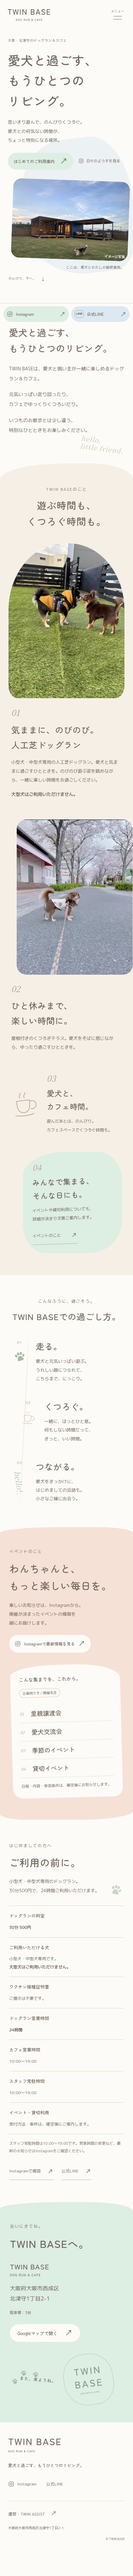
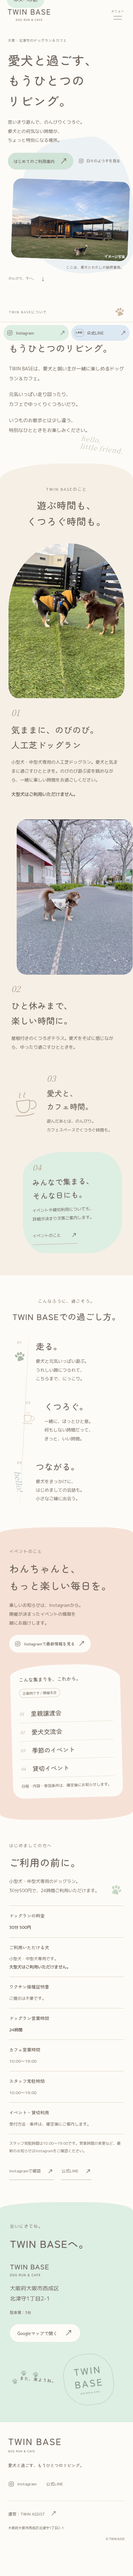
Connect TWIN BASE official LINE account

Changed region(s): [[0.0308, 0.0935, 0.4923, 0.1559], [0.5538, 0.0935, 0.9538, 0.1559]]

diff --git a/public/twin-base/index.html b/public/twin-base/index.html
@@ -1,5 +1,5 @@
 <!doctype html>
-<html lang="ja"><head><meta charset="UTF-8"><meta name="viewport" content="width=device-width,initial-scale=1"><meta name="theme-color" content="#FDFBF7"><meta name="robots" content="noindex,follow"><title>TWIN BASE｜大阪・北津守のドッグラン＆カフェ</title><meta name="description" content="愛犬と過ごす、もうひとつのリビング。大阪市西成区北津守のドッグラン＆カフェ TWIN BASE。施設の魅力、ご利用案内、アクセスをご紹介します。"><link rel="canonical" href="https://twin.yumayuma-0729.workers.dev/twin-base/"><meta property="og:type" content="website"><meta property="og:locale" content="ja_JP"><meta property="og:site_name" content="TWIN BASE"><meta property="og:title" content="TWIN BASE｜愛犬と過ごす、もうひとつのリビング。"><meta property="og:description" content="思いきり遊んで、のんびりくつろぐ。大阪・北津守のドッグラン＆カフェ。"><meta property="og:url" content="https://twin.yumayuma-0729.workers.dev/twin-base/"><link rel="stylesheet" href="/twin-base/style.css?v=20261117-rest"><link rel="preload" as="font" type="font/woff2" href="/twin-base/fonts/zen-maru-medium.woff2" crossorigin><script src="/twin-base/settings.js?v=20261117-rest" defer></script><script src="/twin-base/app.js?v=20261117-rest" defer></script><script type="application/ld+json">{"@context":"https://schema.org","@type":"LocalBusiness","name":"TWIN BASE","description":"ドッグラン＆カフェ","url":"https://twin.yumayuma-0729.workers.dev/twin-base/","address":{"@type":"PostalAddress","streetAddress":"北津守1丁目2-1","addressLocality":"大阪市西成区","addressRegion":"大阪府","addressCountry":"JP"},"parentOrganization":{"@type":"Organization","name":"TWIN ASSIST","url":"https://twin.yumayuma-0729.workers.dev/"},"sameAs":["https://www.instagram.com/twinbase_dogrun?utm_source=qr"],"hasMap":"https://maps.app.goo.gl/CMuM3UB9zTNHnDWb7"}</script></head>
+<html lang="ja"><head><meta charset="UTF-8"><meta name="viewport" content="width=device-width,initial-scale=1"><meta name="theme-color" content="#FDFBF7"><meta name="robots" content="noindex,follow"><title>TWIN BASE｜大阪・北津守のドッグラン＆カフェ</title><meta name="description" content="愛犬と過ごす、もうひとつのリビング。大阪市西成区北津守のドッグラン＆カフェ TWIN BASE。施設の魅力、ご利用案内、アクセスをご紹介します。"><link rel="canonical" href="https://twin.yumayuma-0729.workers.dev/twin-base/"><meta property="og:type" content="website"><meta property="og:locale" content="ja_JP"><meta property="og:site_name" content="TWIN BASE"><meta property="og:title" content="TWIN BASE｜愛犬と過ごす、もうひとつのリビング。"><meta property="og:description" content="思いきり遊んで、のんびりくつろぐ。大阪・北津守のドッグラン＆カフェ。"><meta property="og:url" content="https://twin.yumayuma-0729.workers.dev/twin-base/"><link rel="stylesheet" href="/twin-base/style.css?v=20261117-rest"><link rel="preload" as="font" type="font/woff2" href="/twin-base/fonts/zen-maru-medium.woff2" crossorigin><script src="/twin-base/settings.js?v=20261117-line" defer></script><script src="/twin-base/app.js?v=20261117-rest" defer></script><script type="application/ld+json">{"@context":"https://schema.org","@type":"LocalBusiness","name":"TWIN BASE","description":"ドッグラン＆カフェ","url":"https://twin.yumayuma-0729.workers.dev/twin-base/","address":{"@type":"PostalAddress","streetAddress":"北津守1丁目2-1","addressLocality":"大阪市西成区","addressRegion":"大阪府","addressCountry":"JP"},"parentOrganization":{"@type":"Organization","name":"TWIN ASSIST","url":"https://twin.yumayuma-0729.workers.dev/"},"sameAs":["https://www.instagram.com/twinbase_dogrun?utm_source=qr"],"hasMap":"https://maps.app.goo.gl/CMuM3UB9zTNHnDWb7"}</script></head>
 <body class="tb-page"><a class="tb-skip" href="#main">本文へ移動</a>
 <svg class="tb-svg-defs" aria-hidden="true" xmlns="http://www.w3.org/2000/svg"><defs><symbol id="paw" viewBox="0 0 48 48"><ellipse cx="10" cy="18" rx="5" ry="7" transform="rotate(-25 10 18)"/><ellipse cx="21" cy="11" rx="5" ry="7" transform="rotate(-8 21 11)"/><ellipse cx="33" cy="12" rx="5" ry="7" transform="rotate(12 33 12)"/><ellipse cx="42" cy="23" rx="4.5" ry="6.5" transform="rotate(30 42 23)"/><path d="M15 28c3-6 12-9 17-3l6 9c5 8-5 12-12 8-7 5-18 1-14-7z"/></symbol><symbol id="instagram" viewBox="0 0 24 24"><rect x="3" y="3" width="18" height="18" rx="5" fill="none" stroke="currentColor" stroke-width="1.5"/><circle cx="12" cy="12" r="4" fill="none" stroke="currentColor" stroke-width="1.5"/><circle cx="17.5" cy="6.5" r="1"/></symbol><symbol id="cup" viewBox="0 0 140 130"><path d="M32 39c-3 43 6 61 32 62 24 0 35-21 34-62zM99 46c41-11 40 48 1 39M19 112c27 6 64 8 94-1M52 25c-13-14 11-15 0-26M74 25c-11-13 11-17 4-26" fill="none" stroke="currentColor" stroke-width="3" stroke-linecap="round" stroke-linejoin="round"/></symbol></defs></svg>
 <header class="tb-header"><a class="tb-logo" href="/twin-base/" aria-label="TWIN BASE ホーム"><img data-base-asset="logo" width="400" height="260" alt="TWIN BASEのロゴ" hidden><span class="tb-brand-fallback"><strong>TWIN BASE</strong><small>DOG RUN & CAFE</small></span></a><nav class="tb-desktop-nav" aria-label="メインナビゲーション"><a href="#about">TWIN BASEについて</a><a href="#features">施設のこと</a><a href="#guide">ご利用案内</a><a href="#access">アクセス</a></nav><button class="tb-header-instagram" data-social="instagram" type="button"><svg aria-hidden="true"><use href="#instagram"/></svg><span>Instagram</span></button><button class="tb-menu-toggle" type="button" aria-controls="tb-menu" aria-expanded="false"><span>メニュー</span><i aria-hidden="true"></i></button></header>

diff --git a/public/twin-base/settings.js b/public/twin-base/settings.js
@@ -1,7 +1,7 @@
 /* Set confirmed URLs and original image files here. Empty fields stay unpublished. */
 window.TWIN_BASE_SETTINGS=Object.freeze({
  instagramUrl:'https://www.instagram.com/twinbase_dogrun?utm_source=qr',
- lineUrl:'',
+ lineUrl:'https://lin.ee/OwGAOS5',
  logoPath:'',
  heroPhotoPath:'/twin-base/assets/facility-hero.webp',
  dogrunPhotoPath:'/twin-base/assets/hero-dogs.jpg',

diff --git a/docs/TWIN_BASE_Implementation.md b/docs/TWIN_BASE_Implementation.md
@@ -45,3 +45,7 @@ The “ひと休みまで、楽しい時間に。” section now uses the suppli
 ## Usage rules and hours — 2026-11-17
 
 Confirmed by the user: small/medium dogs only; large dogs cannot use the run; vaccination certificate presentation is not required. Dog run operates 24 hours, café and staffed hours are 10:00–19:00. The previous Instagram-only hours notice is superseded; Instagram remains the source for changes. No assumption of 24-hour staffing, vaccination exemption, year-round operation, or weight thresholds is added.
+
+## Official LINE — 2026-11-17
+
+The user confirmed `https://lin.ee/OwGAOS5` for TWIN BASE. All four LINE buttons (mobile menu, guide, footer, mobile fixed CTA) now use that URL through the shared settings. This supersedes earlier LINE-pending notes for TWIN BASE only; TWIN ASSIST LINE remains pending.
